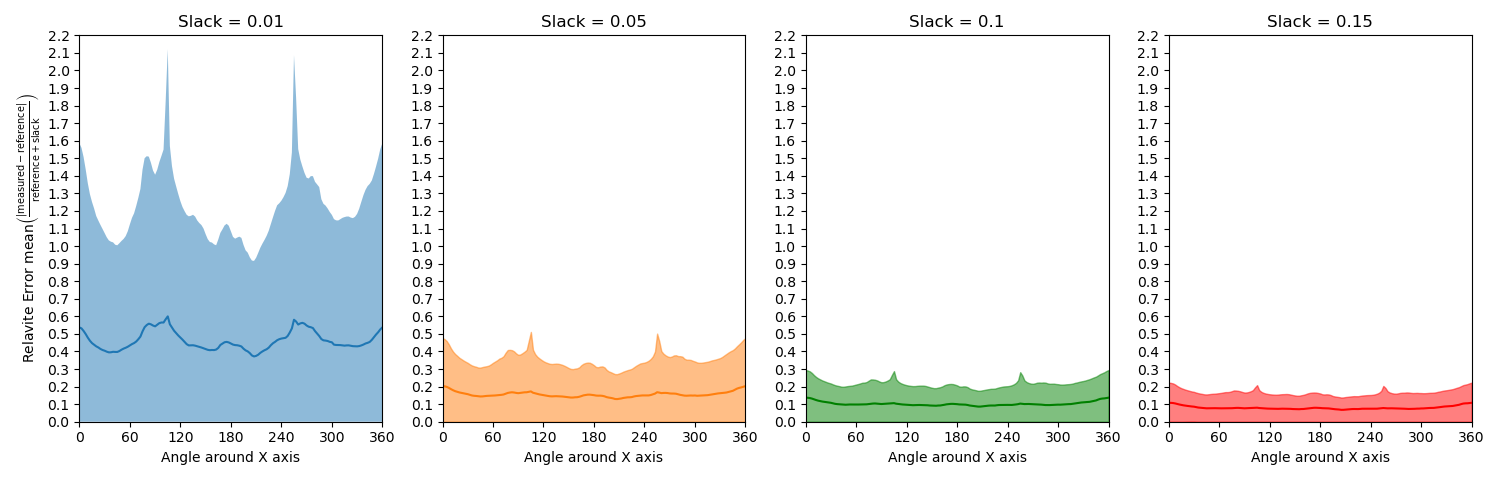
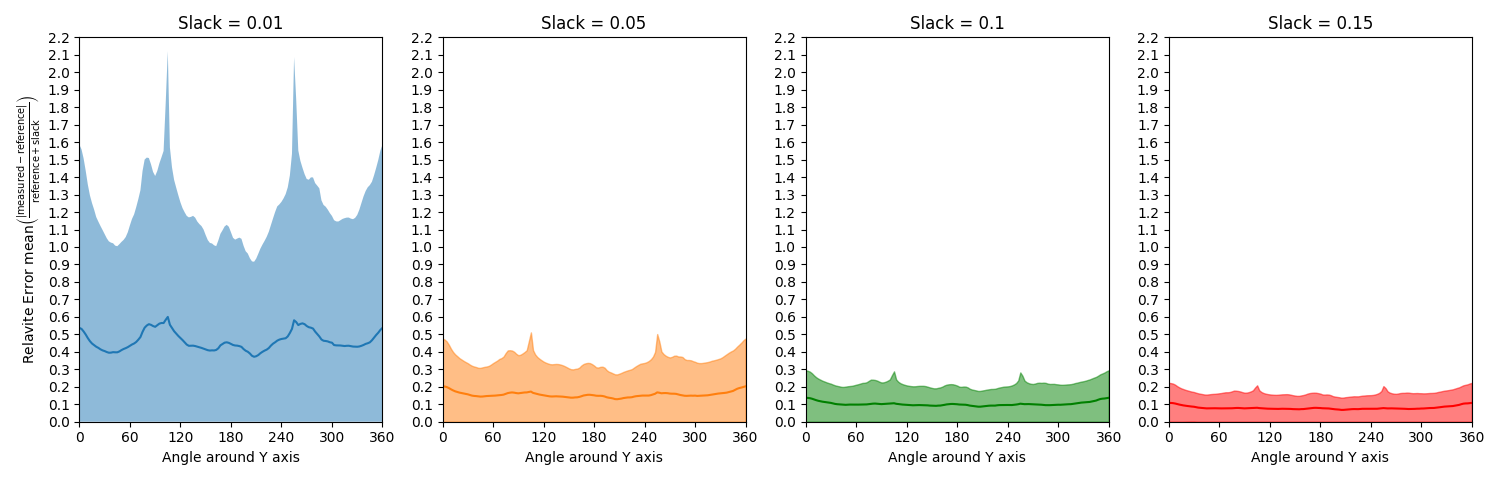
Finished Running Experiments For now

diff --git a/Raytracer/dynamic_shared_MPIRayTracer.py b/Raytracer/dynamic_shared_MPIRayTracer.py
@@ -68,8 +68,8 @@ with torch.no_grad():
 qnet = comm.bcast(qnet, root=0)
 marcher = comm.bcast(marcher, root=0)
 
-start = 215
-end = 260
+start = 347.5
+end = 347.5
 
 for angle in np.linspace(start, end, int((end-start)//2.5)+1):
     if rank == 0:
@@ -85,12 +85,15 @@ for angle in np.linspace(start, end, int((end-start)//2.5)+1):
     # pos = [radius, latitude, longitude]
     angularpos = np.array([4, angle, 90])
 
-    phi = angularpos[2]*np.pi/180
     theta = angularpos[1]*np.pi/180
+
+    # angularpos[2] = 90 + np.sin(2*theta)*45
+
+    phi = angularpos[2]*np.pi/180
 
     pos = np.array([angularpos[0]*np.sin(phi)*np.cos(theta),angularpos[0]*np.sin(phi)*np.sin(theta),angularpos[0]*np.cos(phi)])
     if rank == 0:
-        print(angle)
+        print(angularpos)
         print("camera pos = ", pos, flush=True)
 
     with torch.no_grad():

diff --git a/Raytracer/Experiment_plotter.py b/Raytracer/Experiment_plotter.py
@@ -55,8 +55,8 @@ def plot_exp(filename):
     plt.plot(lines[0], lines[10], label="Ray Marcher Render Time")
     plt.xticks(np.arange(0, 361, 60))
     plt.ylabel("Render Time")
-    plt.xlabel("Angle around Y axis")
+    plt.xlabel("Angle around X axis")
     plt.legend()
     plt.show()
 
-plot_exp("../Renders/Blender_cloud_v1_z_exp_400_400/data.txt")
+plot_exp("../Renders/Blender_cloud_v1_x_exp_400_400/data.txt")
